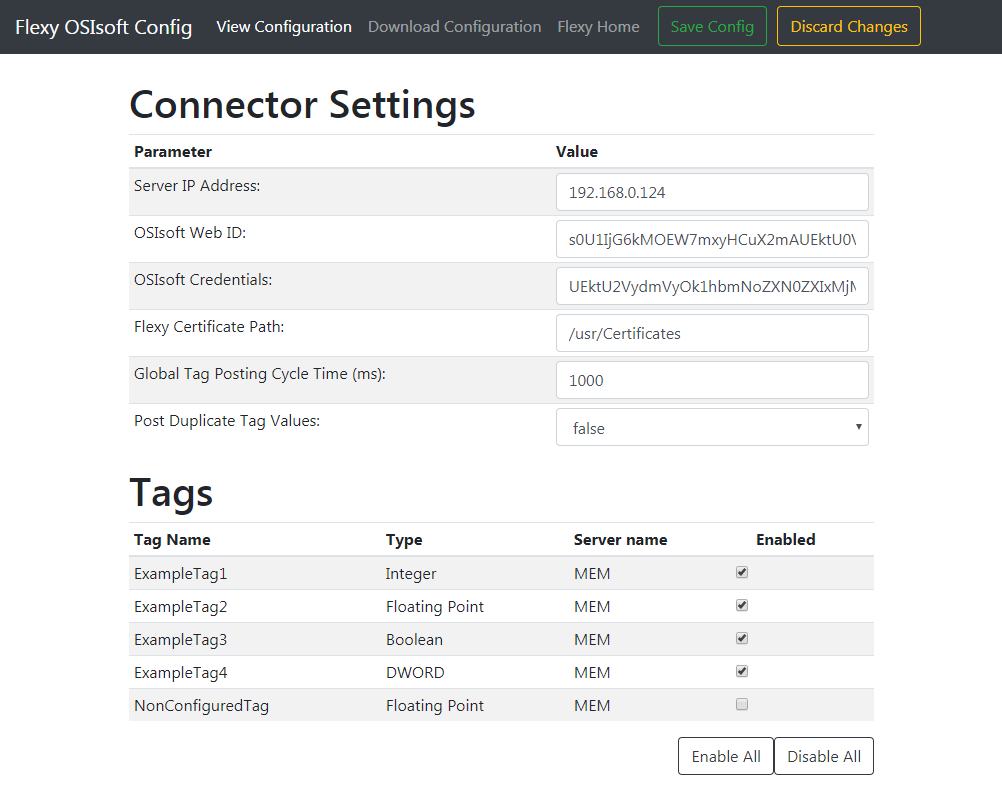
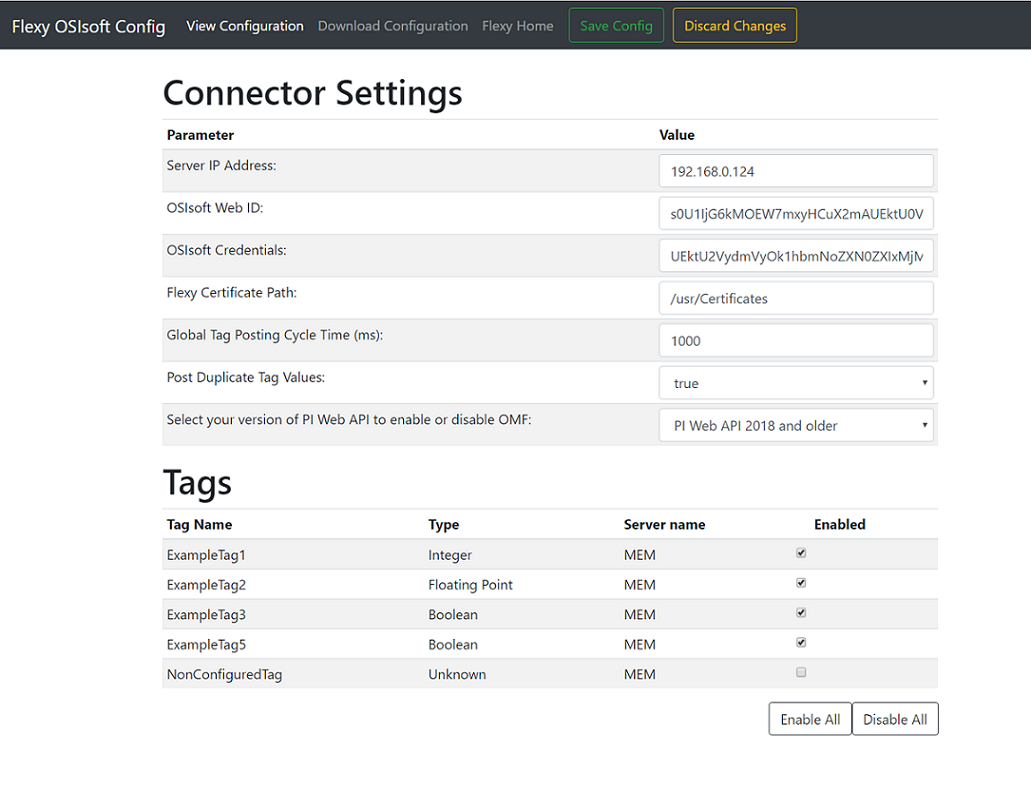
added OMF option to config web page

diff --git a/web/js/FlexyConnector.js b/web/js/FlexyConnector.js
@@ -26,7 +26,8 @@ function saveJSON()
    //Fetch the AppConfig
    var CycleTimeMs = document.getElementById("CycleTimeMs").value;
    var PostDuplicateTagValues = document.getElementById("PostDuplicateTagValues").value;
-   jsonObject.AppConfig = { CycleTimeMs: CycleTimeMs, PostDuplicateTagValues: PostDuplicateTagValues };
+   var CommunicationType = document.getElementById("CommunicationType").value;
+   jsonObject.AppConfig = { CycleTimeMs: CycleTimeMs, PostDuplicateTagValues: PostDuplicateTagValues, CommunicationType: CommunicationType };
 
    //Fetch the TagList
    jsonObject.TagList = [];
@@ -251,6 +252,8 @@ function loadPage()
 
       var options = ["true", "false"];
       addCellsSelection("Post Duplicate Tag Values:", obj.AppConfig.PostDuplicateTagValues, "PostDuplicateTagValues", options);
+      options = ["PI Web API 2018 and older", "PI Web API 2019+"];
+      addCellsSelection("Select your version of PI Web API to enable or disable OMF:", obj.AppConfig.communicationType, "CommunicationType", options);
 
       //Populate checkboxes for Tag list
       //For every tag configured in the json file set the checkbox state to checked
